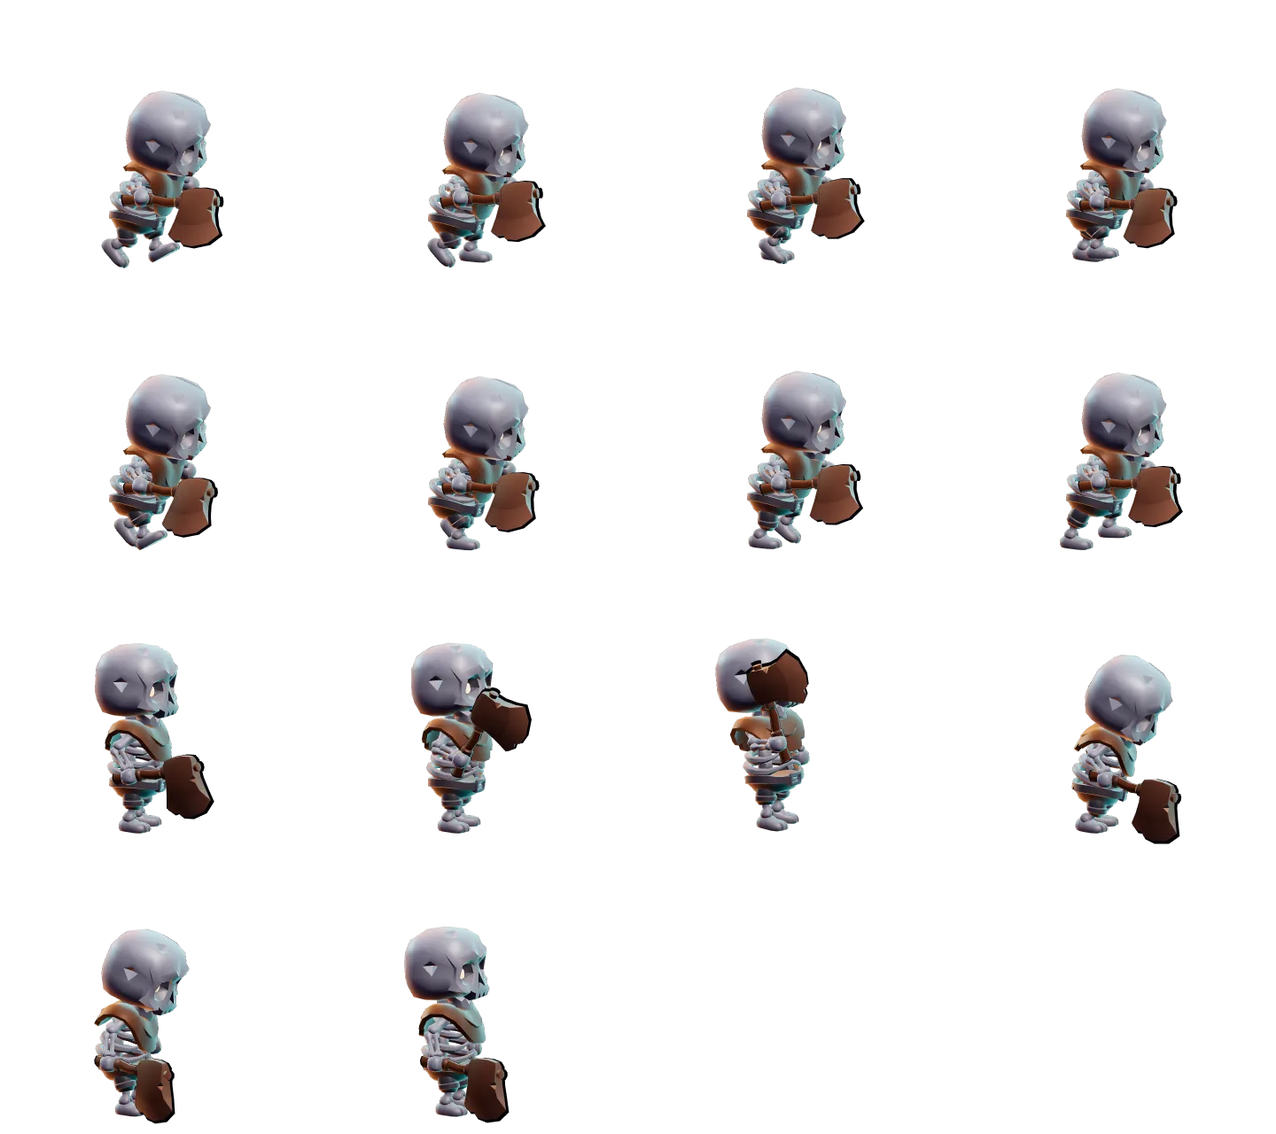
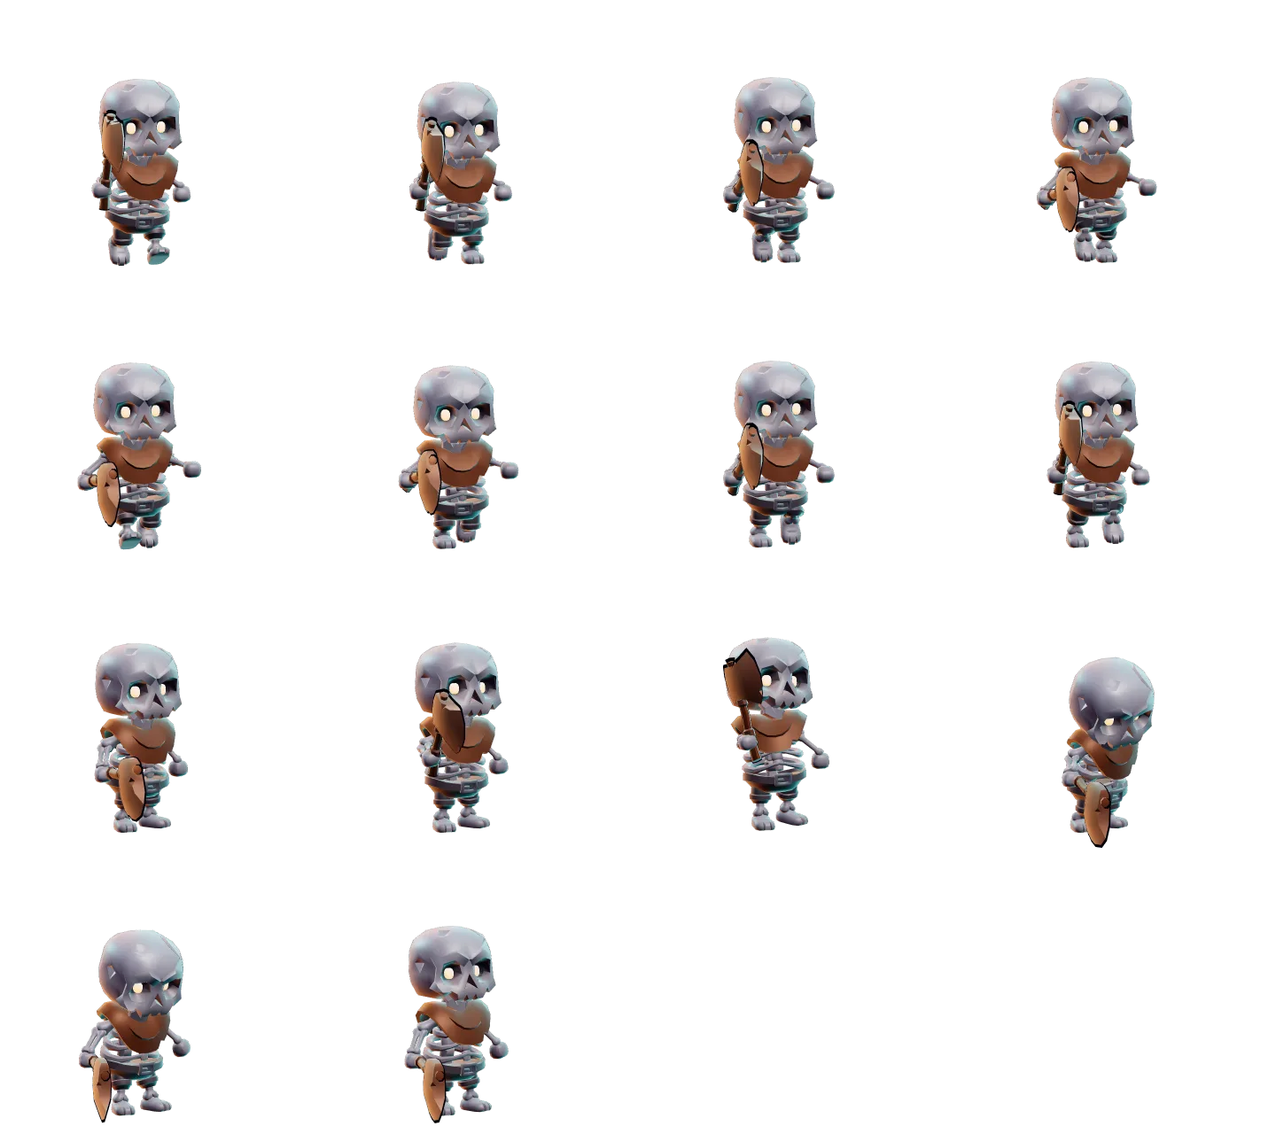
네온 레이드: 적이 등을 보이며 걷던 문제, 보스 움직임, 피격 반응
- 해골 팩 걷기 동작 방향 보정(Walking_A + 회전), 공격·맞음 자세도 3/4 각도로
- 적 피격: 맞은 쪽으로 젖힘·찌그러짐·발밑 먼지, 바닥 튕김, 일어나기, 처치 시 날아가며 흩어짐
- 보스: 거미 걸음 흔들림·점프 준비/착지·기울기, 히드라 숨쉬기·물기 준비→돌진→복귀·지친 고개, 에코 이동 기울기·베기 탄력, 맞으면 움찔
- ATL.V 4

Claude-Session: https://claude.ai/code/session_01MeQV9pgFsZyx95wCJJsgmV

diff --git a/playground/static/js/raid.js b/playground/static/js/raid.js
@@ -224,14 +224,14 @@ function bake(fn, arg, k, rim, rim2, box) {
   const wh = mkc(W, H), w2 = wh.getContext('2d'); w2.drawImage(flat, 0, 0); w2.globalCompositeOperation = 'source-in'; w2.fillStyle = '#fff'; w2.fillRect(0, 0, W, H);
   return { c: out, wh, ox: ox / k, oy: oy / k, w: W / k, h: H / k };
 }
-function put(g, sp, x, y, dir, sc, flash, rotA) {
-  g.save(); g.translate(x, y); if (rotA) g.rotate(rotA); g.scale(dir * sc, sc); g.drawImage(sp.c, -sp.ox, -sp.oy, sp.w, sp.h);
+function put(g, sp, x, y, dir, sc, flash, rotA, sx, sy) {
+  g.save(); g.translate(x, y); if (rotA) g.rotate(rotA); g.scale(dir * sc * (sx || 1), sc * (sy || 1)); g.drawImage(sp.c, -sp.ox, -sp.oy, sp.w, sp.h);
   if (flash > 0) { g.globalAlpha = Math.min(1, flash); g.drawImage(sp.wh, -sp.ox, -sp.oy, sp.w, sp.h); } g.restore();
 }
 
 /* ---------- 3D 렌더 캐릭터 아틀라스 (원본 src3d/chars, 모델 KayKit CC0) ---------- */
 // 5x4 칸, 칸 360x320px, 발 (155,295), 1 게임 단위 = 1.2px. 칸 순서 = ATL.F. 못 불러오면 예전 코드 그림을 쓴다.
-const ATL = { CW: 360, CH: 320, FX: 155, FY: 295, PXU: 1.2, V: 3, F: ['idle', 'idle2', 'run0', 'run1', 'run2', 'run3', 'jump', 'fall', 'hurt', 'dash', 'c1a', 'c1b', 'c2a', 'c2b', 'c3a', 'c3b', 'cast', 'up', 'spin', 'ult',
+const ATL = { CW: 360, CH: 320, FX: 155, FY: 295, PXU: 1.2, V: 4, F: ['idle', 'idle2', 'run0', 'run1', 'run2', 'run3', 'jump', 'fall', 'hurt', 'dash', 'c1a', 'c1b', 'c2a', 'c2b', 'c3a', 'c3b', 'cast', 'up', 'spin', 'ult',
   'idle1', 'idle3', 'run4', 'run5', 'run6', 'run7', 'hurt2', 'dash2'].concat(['c1a', 'c1b', 'c2a', 'c2b', 'c3a', 'c3b', 'cast', 'up', 'spin', 'ult'].flatMap(k => [k + '_p', k + '_f'])), p: {}, sp: {} }; // 8x6 칸 — src3d/chars/classes.js FRAMES 와 같게
 const ATL_E = ['w0', 'w1', 'w2', 'w3', 'w4', 'w5', 'w6', 'w7', 'wind0', 'wind', 'hit', 'hit2', 'hurt', 'hurt2'], ATL_EN = ['grunt', 'shield', 'elite']; // 적: 4x4 칸(걷기 8 + 준비·휘두르기·맞음 2장씩)
 function atlasLoad(key) {
@@ -769,10 +769,12 @@ function hit(e, h, dir, hx) {
 }
 // 맞은 뒤 밀림·띄우기·쓰러짐 (내 타격과 협동 동료의 타격이 같이 쓴다)
 function react(e, h, dir, big) {
+  e.hrT = G.t; e.hrD = dir; e.hrB = big ? 1 : 0; // 맞은 순간 모습(뒤로 젖힘·찌그러짐)용 — 그림만 바꾼다
+  if (!e.crate && e.z <= 0 && !isB(e)) burst(e.x - dir * 6, e.y, 2, '#a8acc8', big ? 8 : 4, big ? 140 : 90); // 발밑 먼지
   if (e.crate) { dieCheck(e, dir); return; }
   if (!ET[e.t]) return;
   const armor = ET[e.t].armor || isB(e);
-  if (isB(e)) { dieCheck(e, dir); return; }
+  if (isB(e)) { dieCheck(e, dir); return; } // 보스: hrT 로 몸만 움찔
   const kbm = armor && e.st !== 'stun' ? .25 : 1;
   e.vx = dir * h.kb * kbm * 2.2; e.f = -dir;
   if ((h.lift || e.z > 0) && !(armor && e.z <= 0 && h.lift < 300)) {
@@ -790,7 +792,7 @@ function kill(e, dir) {
   SV.dex.m[e.t] = (SV.dex.m[e.t] || 0) + 1;
   G.drops.xp += Math.round(ET[e.t].exp * G.am); burst(ex, ey, 30, ET[e.t].rim, isB(e) ? 80 : 26, isB(e) ? 420 : 260); sfx('die');
   // 빛 조각으로 흩어짐(잔인한 표현 없음)
-  G.fx.push({ k: 'ghost', e, x: e.x, y: e.y, z: e.z, t: 0, life: .45, f: e.f, dir });
+  G.fx.push({ k: 'ghost', e, x: e.x, y: e.y, z: e.z, t: 0, life: .6, f: e.f, dir });
   const lastOne = !G.en.some(o => !o.dead && !o.crate);
   if (lastOne || e.t === 'elite' || isB(e)) { G.slow = isB(e) ? 1.6 : .7; G.stop = Math.max(G.stop, .12); G.shake = Math.max(G.shake, 10); }
   const dr = (k, n) => { for (let i = 0; i < n; i++) G.it.push({ k, x: e.x + rnd(-20, 20), y: clamp(e.y + rnd(-10, 10), FY0, FY1), z: 20, vz: rnd(180, 280), t: 0 }); };
@@ -818,8 +820,8 @@ function enemyUpdate(e, dt) {
   const P = NET.on ? tgt(e) : G.P, d = ET[e.t]; e.fl -= dt; e.curse -= dt;
   if (e.spawnT > 0) { e.spawnT -= dt; return; }
   if (e.frz > 0) { e.frz -= dt; physE(e, dt); return; }
-  if (e.st === 'air') { physE(e, dt); if (e.z <= 0 && e.vz <= 0) { e.st = 'down'; e.tm = .55; e.jug = 0; G.shake = Math.max(G.shake, 2); burst(e.x, e.y, 6, '#ffffff', 5, 60); } return; }
-  if (e.st === 'down') { e.tm -= dt; physE(e, dt); if (e.tm <= 0) { e.st = 'walk'; e.tm = .3; } return; }
+  if (e.st === 'air') { physE(e, dt); if (e.z <= 0 && e.vz <= 0) { e.bnT = G.t; e.st = 'down'; e.tm = .55; e.jug = 0; G.shake = Math.max(G.shake, 2); burst(e.x, e.y, 6, '#ffffff', 5, 60); } return; }
+  if (e.st === 'down') { e.tm -= dt; physE(e, dt); if (e.tm <= 0) { e.st = 'walk'; e.tm = .3; e.guT = G.t; } return; }
   if (e.st === 'hurt') { e.tm -= dt; physE(e, dt); if (e.tm <= 0) { e.st = 'walk'; e.tm = rnd(.1, .4); } return; }
   physE(e, dt); e.tm -= dt; const dx = P.x - e.x, dy = P.y - e.y;
   if (e.t === 'ad') { adUpdate(e, dt, P, d, dx, dy); return; }
@@ -1136,7 +1138,7 @@ function spiderAI(b, dt, P, A) {
   if (b.st === 'leap') {
     if (!b.up) { if (b.tm > 0) return; b.up = 1; b.tm = 1.05; b.lx = clamp(P.x, 100, G.L - 100); b.ly = clamp(P.y, FY0 + 10, FY1 - 10); hpush({ k: 'zone', art: 'slam', x: b.lx, y: b.ly, r: 110, warn: 1.05, t: 0, d: Math.round(A * 1.25), kb: 1, end: 1.4 }); sfx('jump'); }
     const u = clamp(1 - b.tm / 1.05, 0, 1); b.z = Math.sin(u * Math.PI) * 340; b.x = lerp(b.x, b.lx, Math.min(1, dt * 3)); b.y = lerp(b.y, b.ly, Math.min(1, dt * 3));
-    if (b.tm <= 0) { b.up = 0; b.z = 0; b.x = b.lx; b.y = b.ly; b.st = 'land'; b.tm = b.ph2 ? 1.8 : 2.4; b.core = b.tm; G.shake = 14; sfx('boom'); burst(b.x, b.y, 10, '#ff5ad8', 30, 320); tx(b.x, b.y - 150, '다리가 박혔어요!', '#ffd166', 16); }
+    if (b.tm <= 0) { b.up = 0; b.z = 0; b.x = b.lx; b.y = b.ly; b.st = 'land'; b.lnT = G.t; b.tm = b.ph2 ? 1.8 : 2.4; b.core = b.tm; G.shake = 14; sfx('boom'); burst(b.x, b.y, 10, '#ff5ad8', 30, 320); tx(b.x, b.y - 150, '다리가 박혔어요!', '#ffd166', 16); }
     return;
   }
   if (b.st === 'land') { if (b.tm <= 0) { b.st = 'idle'; b.tm = b.ph2 ? .7 : 1.1; } return; }
@@ -1315,10 +1317,12 @@ function drawE(g, e) {
   const S = SPR.e[e.t] || spx(e.t); if (!S) return; let sp = S.w0; if (e.st === 'blink') { g.save(); g.globalAlpha = clamp(e.tm / .35, 0, 1); }
   if (e.st === 'walk') sp = S.w7 ? [S.w0, S.w1, S.w2, S.w3, S.w4, S.w5, S.w6, S.w7][Math.floor(e.ph * 2) % 8] : S.w5 ? [S.w0, S.w1, S.w2, S.w3, S.w4, S.w5][Math.floor(e.ph * 1.5) % 6] : [S.w0, S.w1, S.w0, S.w2][Math.floor(e.ph) % 4];
   else if (e.st === 'wind') sp = S.wind0 && e.tm > .3 ? S.wind0 : S.wind; else if (e.st === 'swing') sp = S.hit2 && e.tm < .2 ? S.hit2 : S.hit; else if (e.st === 'hurt' || e.st === 'air' || e.st === 'down') sp = S.hurt2 && (e.st === 'down' || e.tm < .12) ? S.hurt2 : S.hurt;
-  let rot = 0; if (e.st === 'air') rot = -e.f * clamp(e.vz / -400 + .4, -.2, 1.3); if (e.st === 'down') rot = -e.f * 1.45;
+  let rot = 0, sqx = 1, sqy = 1, yo = 0; if (e.st === 'air') rot = -e.f * clamp(e.vz / -400 + .4, -.2, 1.3); if (e.st === 'down') { rot = -e.f * 1.45; const bt = G.t - (e.bnT || -9); if (bt < .35) yo = -Math.abs(Math.sin(bt / .35 * Math.PI)) * 14 * (1 - bt / .35); } // 바닥에 튕김
+  const gt = G.t - (e.guT || -9); if (e.st === 'walk' && gt < .28) { const k = 1 - gt / .28; rot = -e.f * 1.45 * k * k; sp = S.hurt2 || S.hurt; sqy = 1 - .08 * k; } // 일어나기
+  const ht = G.t - (e.hrT || -9), hd = .16 + (e.hrB ? .12 : 0); if (ht < hd && e.st !== 'air' && e.st !== 'down') { const k = 1 - ht / hd, kk = k * k; rot += (e.hrD || 1) * (e.hrB ? .32 : .18) * kk; sqx = 1 + .14 * kk * (ht < .05 ? 1 : -.4); sqy = 1 - .1 * kk * (ht < .05 ? 1 : -.5); } // 맞은 쪽으로 젖힘 + 찌그러짐
   const shk = e.fl > 0 ? rnd(-2, 2) : 0, sc = ET[e.t].sc;
   if (e.st === 'wind') { const pu = .5 + .5 * Math.sin(G.t * 40); glw(g, e.x, e.y - e.z - e.h - 18, 14 + pu * 6, '#ff3d6a', .9); glw(g, e.x, e.y - e.z - e.h - 18, 5, '#ffffff', pu); glw(g, e.x + e.f * 30, e.y - e.z - e.h * .55, 26, hexA(ET[e.t].rim), .35 + pu * .3); }
-  put(g, sp, e.x + shk, e.y - e.z - (e.st === 'down' ? 8 : 0), e.f, sc, e.fl > 0 ? Math.min(.55, e.fl * 9) : e.frz > 0 ? .35 : 0, rot);
+  put(g, sp, e.x + shk, e.y - e.z - (e.st === 'down' ? 8 : 0) + yo, e.f, sc, e.fl > 0 ? Math.min(.55, e.fl * 9) : e.frz > 0 ? .35 : 0, rot, sqx, sqy);
   if (e.st === 'blink') g.restore();
   if (e.frz > 0) { g.fillStyle = 'rgba(180,240,255,.35)'; g.beginPath(); g.roundRect(e.x - e.w - 4, e.y - e.h - 6, e.w * 2 + 8, e.h + 8, 6); g.fill(); }
   if (e.curse > 0) dot(g, e.x, e.y - e.z - e.h - 12, 3, '#7dff9a');
@@ -1414,7 +1418,8 @@ function drawFx(g) {
     else if (f.k === 'dash') { g.save(); g.globalAlpha = .6 * (1 - u); g.fillStyle = f.col; for (let i = 0; i < 5; i++) g.fillRect(f.x - f.f * (20 + i * 22), f.y - f.z - 30 - i * 9, -f.f * 40, 2); g.restore(); }
     else if (f.k === 'slam') { g.save(); g.globalCompositeOperation = 'lighter'; g.globalAlpha = 1 - u; const rx = 30 + u * 90, ry = 10 + u * 26; g.strokeStyle = '#ff2a6a'; g.lineWidth = 12 * (1 - u) + 2; g.globalAlpha = (1 - u) * .35; g.beginPath(); g.ellipse(f.x, f.y, rx, ry, 0, 0, TAU); g.stroke(); g.globalAlpha = 1 - u; g.lineWidth = 3; g.strokeStyle = '#ffd0dc'; g.beginPath(); g.ellipse(f.x, f.y, rx, ry, 0, 0, TAU); g.stroke(); glw(g, f.x, f.y, 60 * (1 - u), '#ff2a6a', .7); for (let i = 0; i < 8; i++) { const a = i / 8 * TAU; glw(g, f.x + Math.cos(a) * rx, f.y + Math.sin(a) * ry - u * 20, 6, '#ff9ac0', 1 - u); } g.restore(); }
     else if (f.k === 'bolt' || f.k === 'petz') { g.save(); g.globalAlpha = 1 - u; g.shadowColor = f.k === 'bolt' ? '#e3b8ff' : '#ffd6f5'; g.shadowBlur = 14; g.strokeStyle = '#fff'; g.lineWidth = f.k === 'bolt' ? 2.5 : 1.5; g.beginPath(); g.moveTo(f.x, f.y); for (let i = 1; i < 6; i++) g.lineTo(lerp(f.x, f.x2, i / 6) + rnd(-8, 8), lerp(f.y, f.y2, i / 6) + rnd(-8, 8)); g.lineTo(f.x2, f.y2); g.stroke(); g.restore(); }
-    else if (f.k === 'ghost') { const e = f.e; g.save(); g.globalAlpha = (1 - u) * .8; g.globalCompositeOperation = 'lighter'; if (e.t === 'drone') dot(g, f.x, f.y - f.z, 20 * (1 + u), '#4fd8ff'); else if (SPR.e[e.t] || spx(e.t)) put(g, (SPR.e[e.t] || spx(e.t)).hurt, f.x + f.dir * u * 30, f.y - f.z - u * 20, f.f, ET[e.t].sc * (1 + u * .3), .5); g.restore(); }
+    else if (f.k === 'ghost') { const e = f.e; g.save(); g.globalAlpha = (1 - u) * .8; g.globalCompositeOperation = 'lighter'; if (e.t === 'drone') dot(g, f.x, f.y - f.z, 20 * (1 + u), '#4fd8ff'); else if (SPR.e[e.t] || spx(e.t)) { const S2 = SPR.e[e.t] || spx(e.t), d = f.dir || 1, arc = Math.sin(Math.min(1, u * 1.6) * Math.PI) * 40; g.globalCompositeOperation = 'source-over'; g.globalAlpha = 1 - u * u; put(g, S2.hurt2 || S2.hurt, f.x + d * u * 70, f.y - f.z - arc, f.f, ET[e.t].sc * (1 - u * .25), .25 + u * .6, -f.f * Math.min(1.45, u * 3), 1 + u * .2, 1 - u * .3);
+        g.globalCompositeOperation = 'lighter'; for (let i = 0; i < 5; i++) glw(g, f.x + d * u * 70 + Math.sin(i * 2.4) * 22 * u, f.y - f.z - arc - 20 - i * 12 - u * 40, 9 * (1 - u), hexA(ET[e.t].rim), 1 - u); } g.restore(); }
     else if (f.k === 'area') drawArea(g, f, u);
     else if (f.k === 'shock') { const c2 = hexA(f.col), e2 = 1 - Math.pow(1 - u, 3); g.save(); g.globalCompositeOperation = 'lighter'; for (let j = 0; j < 3; j++) { const v = clamp(e2 - j * .12, 0, 1), rx = f.r * v, ry = rx * .32; if (v <= 0) continue; g.globalAlpha = (1 - u) * (j ? .5 : .9); g.strokeStyle = j ? c2 : '#ffffff'; g.lineWidth = (j ? 10 : 4) * (1 - u) + 1; g.beginPath(); g.ellipse(f.x, f.y, rx, ry, 0, 0, TAU); g.stroke(); }
       g.globalAlpha = (1 - u) * .8; g.strokeStyle = c2; g.lineWidth = 2; for (let i = 0; i < 10; i++) { const a = i / 10 * TAU + .3, L1 = 30 + e2 * f.r * .7; g.beginPath(); g.moveTo(f.x + Math.cos(a) * 20, f.y + Math.sin(a) * 7); g.lineTo(f.x + Math.cos(a) * L1 * .6 + Math.sin(i * 7) * 12, f.y + Math.sin(a) * L1 * .2); g.lineTo(f.x + Math.cos(a) * L1, f.y + Math.sin(a) * L1 * .32); g.stroke(); }
@@ -1645,14 +1650,15 @@ function drawSign(g, x0, y0, col, ci, a) {
 /* ---------- 보스 그리기 ---------- */
 function drawBoss2(g, b) { if (b.t === 'spider') drawSpider(g, b); else if (b.t === 'hydra') drawHydra(g, b); else drawEcho(g, b); }
 function drawSpider(g, b) {
-  const y = b.y - b.z, f = b.f || -1, fl = b.fl > 0, land = b.st === 'land', crouch = (b.st === 'leap' && !b.up) ? 10 : 0, air = b.z > 4, ph = (b.walk || 0) + (NET.guest ? G.t * 3 : 0);
+  const y = b.y - b.z, f = b.f || -1, fl = b.fl > 0, land = b.st === 'land', air = b.z > 4, lt = G.t - (b.lnT || -9), ez = t => 1 - (1 - t) * (1 - t), crouch = (b.st === 'leap' && !b.up) ? 18 * ez(clamp(1 - b.tm / .6, 0, 1)) : air ? -6 : land && lt < .3 ? 20 * (1 - lt / .3) : 0, ph = (b.walk || 0) + (NET.guest ? G.t * 3 : 0);
   const body = fl ? '#b8a8e0' : null;
   const leg = (i, back) => { const s = i < 2 ? 1 : -1, j = i % 2, hipX = (j ? 18 : -10) * s, hipY = -74 + crouch, swing = air ? -10 : land ? 18 : Math.sin(ph + i * 1.7 + (back ? .8 : 0)) * 14,
       footX = (j ? 104 : 74) * s + swing * s * .5 + (back ? -8 * s : 0), footY = air ? -20 : (back ? -6 : 4), kneeX = (j ? 70 : 46) * s + (back ? -4 * s : 0), kneeY = -130 + crouch + (air ? 30 : 0) - (land ? -20 : 0) + Math.max(0, Math.sin(ph + i * 1.7)) * (air ? 0 : 10);
     if (ATL.b2) { const sp = back ? ATL.b2.splegd : ATL.b2.spleg, w = fl ? .45 : 0; seg3(g, sp, hipX, hipY, kneeX, kneeY, back ? .85 : 1, w); seg3(g, sp, kneeX, kneeY, footX, footY, back ? .7 : .85, w); glw(g, kneeX, kneeY, back ? 6 : 9, '#ff5ad8', back ? .4 : .8); return; }
     g.strokeStyle = 'rgba(8,4,14,.95)'; g.lineWidth = back ? 12 : 14; g.lineCap = 'round'; g.lineJoin = 'round'; g.beginPath(); g.moveTo(hipX, hipY); g.lineTo(kneeX, kneeY); g.lineTo(footX, footY); g.stroke();
     g.strokeStyle = body || (back ? '#3a2e52' : '#5a4a78'); g.lineWidth = back ? 8 : 9; g.stroke(); g.strokeStyle = body || '#ff5ad8'; g.globalAlpha = back ? .3 : .6; g.lineWidth = 1.6; g.beginPath(); g.moveTo(kneeX, kneeY); g.lineTo(footX, footY); g.stroke(); g.globalAlpha = 1; dot(g, kneeX, kneeY, 3, back ? '#a04a90' : '#ff9ae8'); };
-  g.save(); g.translate(b.x, y); g.scale(-f, 1);
+  const ht = G.t - (b.hrT || -9), rec = ht < .15 ? (b.hrD || 0) * 7 * (1 - ht / .15) : 0, bob = air ? 0 : (Math.abs(Math.sin(ph)) * 5 - 2.5), tilt = air ? (b.vz0 = b.z - (b.pz || 0), b.pz = b.z, clamp(-b.vz0 * .02, -.18, .18)) : (b.pz = 0, Math.sin(ph * .5) * .02);
+  g.save(); g.translate(b.x + rec, y + bob); g.scale(-f, 1); g.rotate(tilt); // 걸음에 맞춰 몸 흔들림·점프 때 기울기·맞으면 움찔
   for (let i = 0; i < 4; i++) leg(i, 1);
   if (ATL.b2) { put(g, ATL.b2.spbody, 0, crouch, 1, 1, fl ? .45 : 0); glw(g, -46, -84 + crouch, land ? 22 : 14, land ? '#ffd166' : '#ff5ad8', .8); glw(g, 46, -100 + crouch, 50, '#ff5ad8', .18); }
   else {
@@ -1670,21 +1676,23 @@ function drawSpider(g, b) {
   if (b.core > 0) { g.save(); const r = 34 + Math.sin(G.t * 10) * 4; g.fillStyle = rg(g, b.x, y - 76, 0, r, [[0, 'rgba(255,255,255,.9)'], [.4, 'rgba(255,214,102,.6)'], [1, 'rgba(255,120,0,0)']]); g.beginPath(); g.arc(b.x, y - 76, r, 0, TAU); g.fill(); g.restore(); for (let i = 0; i < 3; i++) dot(g, b.x + Math.cos(G.t * 5 + i * 2) * 50, y - 150 + Math.sin(G.t * 5 + i * 2) * 8, 3, '#ffd166'); }
 }
 function drawHydra(g, b) {
-  const r = b.st === 'enter' ? Math.min(1, b.rise || 1 - Math.max(0, b.tm) / 2.2) : 1, y = b.y + (1 - r) * 150, fl = b.fl > 0, tired = b.st === 'tired', beam = b.st === 'beam';
-  g.save(); g.globalAlpha = .3 + .7 * r; g.translate(b.x, y);
+  const r = b.st === 'enter' ? Math.min(1, b.rise || 1 - Math.max(0, b.tm) / 2.2) : 1, y = b.y + (1 - r) * 150, fl = b.fl > 0, tired = b.st === 'tired', beam = b.st === 'beam', ht = G.t - (b.hrT || -9), rec = ht < .15 ? 6 * (1 - ht / .15) : 0;
+  b.td = lerp(b.td || 0, tired ? 1 : 0, .07); const td = b.td, br = Math.sin(G.t * 2.2) * .012; // 지쳐 고개 숙이기·숨쉬기를 부드럽게
+  g.save(); g.globalAlpha = .3 + .7 * r; g.translate(b.x + rec, y);
   // 몸통: 서버 더미
   const blk = (x0, y0, w, h) => { g.fillStyle = fl ? '#4a7aa0' : lg(g, x0, 0, x0 + w, 0, [[0, '#0a1626'], [.5, '#1a3450'], [1, '#08121e']]); g.beginPath(); g.roundRect(x0, y0, w, h, 6); g.fill(); g.strokeStyle = '#2a5070'; g.lineWidth = 1.5; g.stroke();
     for (let yy = y0 + 8; yy < y0 + h - 6; yy += 11) { g.fillStyle = '#06101c'; g.fillRect(x0 + 6, yy, w - 12, 7); for (let l = 0; l < 4; l++) { const on2 = Math.sin(G.t * (3 + l) + yy + x0) > 0; g.fillStyle = on2 ? ['#4fd8ff', '#6bff9a', '#ffd166', '#ff5a7a'][l] : '#1a2a3a'; g.fillRect(x0 + 10 + l * 7, yy + 2, 3, 3); } } };
-  if (ATL.b2) { put(g, ATL.b2.hybody, 0, 0, 1, 1, fl ? .7 : 0); for (let l = 0; l < 4; l++) glw(g, -50 + l * 30, -60 - l * 40, 12, ['#4fd8ff', '#6bff9a', '#ffd166', '#ff5a7a'][l], .4 + .4 * Math.sin(G.t * (3 + l))); }
+  if (ATL.b2) { put(g, ATL.b2.hybody, 0, 0, 1, 1, fl ? .7 : 0, 0, 1 - br * .5, 1 + br); for (let l = 0; l < 4; l++) glw(g, -50 + l * 30, -60 - l * 40, 12, ['#4fd8ff', '#6bff9a', '#ffd166', '#ff5a7a'][l], .4 + .4 * Math.sin(G.t * (3 + l))); }
   else { blk(-70, -120, 130, 120); blk(-50, -190, 96, 74); blk(-20, -232, 60, 46); }
   if (b.core > 0) { const rr = 30 + Math.sin(G.t * 10) * 4; g.fillStyle = rg(g, -6, -150, 0, rr, [[0, 'rgba(255,255,255,1)'], [.35, 'rgba(255,214,102,.9)'], [1, 'rgba(255,120,0,0)']]); g.beginPath(); g.arc(-6, -150, rr, 0, TAU); g.fill(); }
   // 목(케이블) + 머리 3개
   for (let i = 0; i < 3; i++) {
-    const sway = Math.sin(G.t * 2 + i * 2.1) * 8, lunge = b.st === 'bite' && b.hd === i && b.tm < .45 ? -70 : 0, hx = -150 - i * 18 + sway + lunge, hy = (tired ? -60 : -200) + i * 52 + Math.cos(G.t * 1.6 + i) * 6, bx0 = -50, by0 = -150 + i * 30;
+    const sway = Math.sin(G.t * 2 + i * 2.1 + Math.sin(G.t * .7) * .6) * 9, bt = b.st === 'bite' && b.hd === i ? b.tm : 9, lunge = bt < 1.1 ? (bt > .45 ? 22 * Math.sin((1.1 - bt) / .65 * Math.PI * .5) : -92 * Math.pow(clamp((.45 - bt) / .12, 0, 1), .5) * clamp(bt / .2, 0, 1)) : 0, bm = beam ? Math.sin(G.t * 40 + i) * 2 + 10 : 0,
+      hx = -150 - i * 18 + sway + lunge + bm, hy = lerp(-200, -60, td) + i * 52 + Math.cos(G.t * 1.6 + i) * 6 * (1 - td * .7), bx0 = -50, by0 = -150 + i * 30;
     g.strokeStyle = 'rgba(4,8,16,.95)'; g.lineWidth = 20; g.lineCap = 'round'; g.beginPath(); g.moveTo(bx0, by0); g.bezierCurveTo(bx0 - 40, by0 - 60 + i * 20, hx + 60, hy - 30, hx + 20, hy); g.stroke();
     g.strokeStyle = fl ? '#6a9ac0' : ['#1e4a6a', '#2a3a6a', '#1a5a5a'][i]; g.lineWidth = 14; g.stroke();
     g.strokeStyle = 'rgba(79,216,255,.5)'; g.lineWidth = 2; g.setLineDash([3, 7]); g.stroke(); g.setLineDash([]);
-    g.save(); g.translate(hx, hy); if (tired) g.rotate(-.5); const open = beam || (b.st === 'bite' && b.hd === i) ? 1 : 0;
+    g.save(); g.translate(hx, hy); g.rotate(-.5 * td + (bt < .45 ? -.12 : bt < 1.1 ? .1 : 0)); const open = beam || (b.st === 'bite' && b.hd === i) ? 1 : 0;
     if (ATL.b2) { put(g, open ? ATL.b2.hyh1 : ATL.b2.hyh0, 0, 0, 1, 1, fl ? .7 : 0); if (!tired) glw(g, -10, -8, 10, beam ? '#ffffff' : '#4fd8ff', .7); if (beam) dot(g, -52, 4, 6 + Math.sin(G.t * 30) * 2, '#bff4ff'); g.restore(); continue; }
     shape(g, [[16, -18], [-30, -14], [-56, -4 - open * 6], [-34, 0], [16, 4]], fl ? '#8ab8e0' : lg(g, 0, -18, 0, 4, [[0, '#3a6a90'], [1, '#14283a']]), .2);
     shape(g, [[16, 6], [-30, 4 + open * 10], [-50, 10 + open * 16], [-28, 16], [14, 16]], fl ? '#4a7aa0' : '#12243a', .2);
@@ -1696,10 +1704,11 @@ function drawHydra(g, b) {
   if (tired) for (let i = 0; i < 3; i++) dot(g, b.x - 150 + Math.cos(G.t * 5 + i * 2) * 40, y - 120 + Math.sin(G.t * 5 + i * 2) * 8, 3, '#ffd166');
 }
 function drawEcho(g, b) {
-  const f = b.f || -1, fl = b.fl > 0, y = b.y - b.z, tired = b.st === 'tired';
+  const f = b.f || -1, fl = b.fl > 0, y = b.y - b.z, tired = b.st === 'tired', ht = G.t - (b.hrT || -9), rec = ht < .15 ? (b.hrD || 0) * 6 * (1 - ht / .15) : 0;
+  b.td = lerp(b.td || 0, tired ? 1 : 0, .08); const dx = b.x - (b.dpx == null ? b.x : b.dpx); b.dpx = b.x; b.lean = lerp(b.lean || 0, Math.abs(dx) > 40 ? 0 : clamp(dx * .06, -.22, .22), .12); // 움직이는 쪽으로 기울기
   let al = 1; if (b.st === 'enter') al = clamp(1 - b.tm / 2.2, 0, 1); if (b.st === 'blink') al = clamp(b.tm / .45, 0, 1);
-  g.save(); g.globalAlpha = al; g.translate(b.x + (b.st === 'blink' ? rnd(-3, 3) : 0), y + (tired ? 14 : 0)); g.scale(f, 1);
-  const wv = Math.sin(G.t * 3) * 8, sl = b.st === 'slash' ? clamp(1 - b.tm / .6, 0, 1) : 0;
+  g.save(); g.globalAlpha = al; g.translate(b.x + rec + (b.st === 'blink' ? rnd(-3, 3) : 0), y + b.td * 14); g.rotate(b.lean + (ht < .15 ? (b.hrD || 0) * .08 * (1 - ht / .15) : 0)); g.scale(f, 1); g.rotate(b.td * .12);
+  const wv = Math.sin(G.t * 3) * 8 + b.lean * f * 30, sl0 = b.st === 'slash' ? clamp(1 - b.tm / .6, 0, 1) : 0, sl = sl0 < .3 ? -.25 * Math.sin(sl0 / .3 * Math.PI * .5) : 1 - Math.pow(1 - (sl0 - .3) / .7, 3); // 베기: 뒤로 젖혔다가 빠르게
   const E3 = ATL.b2, fw = fl ? .7 : 0;
   if (E3) { g.save(); g.translate(0, -118); g.transform(1, 0, -wv * .012, 1, 0, 0); g.translate(0, 118); put(g, E3.eccape, 0, 0, 1, 1, fw); g.restore(); put(g, E3.ecbody, 0, 0, 1, 1, fw); }
   else {
@@ -1713,7 +1722,7 @@ function drawEcho(g, b) {
   if (tired || b.core > 0) { const rr = 16 + Math.sin(G.t * 10) * 3; g.fillStyle = rg(g, 0, -84, 0, rr * 1.8, [[0, 'rgba(255,255,255,1)'], [.4, 'rgba(255,214,102,.8)'], [1, 'rgba(255,120,0,0)']]); g.beginPath(); g.arc(0, -84, rr * 1.8, 0, TAU); g.fill(); }
   else if (E3) glw(g, 0, -84, 14, '#c084ff', .9); else dot(g, 0, -84, 5, '#c084ff');
   // 칼을 든 팔
-  g.save(); g.translate(14, -104); g.rotate(tired ? 1.2 : -1.1 + sl * 2.6 + Math.sin(G.t * 2) * .05);
+  g.save(); g.translate(14, -104); g.rotate(lerp(-1.1 + sl * 2.6 + Math.sin(G.t * 2) * .05, 1.2, b.td));
   if (E3) { put(g, E3.ecsw, 0, 0, 1, 1, fw); for (let j = 0; j < 3; j++) glw(g, 0, 50 + j * 24, 16, '#c084ff', .35 + (sl ? .4 : 0)); } else {
   g.strokeStyle = fl ? '#6a4a90' : '#3a2050'; g.lineWidth = 8; g.lineCap = 'round'; g.beginPath(); g.moveTo(0, 0); g.lineTo(0, 30); g.stroke();
   g.shadowColor = '#c084ff'; g.shadowBlur = 16; shape(g, [[-3, 30], [3, 30], [6, 96], [0, 112], [-6, 96]], lg(g, 0, 30, 0, 112, [[0, '#f6eaff'], [1, '#a06aff']]), .1); } g.restore();

diff --git a/playground/src3d/chars/classes.js b/playground/src3d/chars/classes.js
@@ -72,9 +72,10 @@ export const CLASSES = {
 
 // 적: 9프레임(3x3, 걷기 6 + 준비·휘두르기·맞음). 균열 빛에 깨어난 기계 골격 — KayKit Skeletons(CC0) 뼈를 금속색으로 칠하고 눈을 빛나게.
 export const EFRAMES = ['w0', 'w1', 'w2', 'w3', 'w4', 'w5', 'w6', 'w7', 'wind0', 'wind', 'hit', 'hit2', 'hurt', 'hurt2']; // 4x4 칸: 걷기 8 + 준비 2 + 휘두르기 2 + 맞음 2
-const WK = 'Walking_D_Skeletons';
-const EF = (atk, wa, wb) => ({ w0: [WK, 0], w1: [WK, 1 / 8], w2: [WK, 2 / 8], w3: [WK, 3 / 8], w4: [WK, 4 / 8], w5: [WK, 5 / 8], w6: [WK, 6 / 8], w7: [WK, 7 / 8],
-  wind0: [atk, Math.max(0, wa - .12)], wind: [atk, wa], hit: [atk, wb], hit2: [atk, Math.min(.95, wb + .17)], hurt: ['Hit_A', .3], hurt2: ['Hit_A', .6] });
+// BK 11/14 '적이 뒤로 등장': 해골 팩은 몸 방향이 모험가 팩과 달라 등이 보였다 → 걷기 Walking_A + 방향 보정(WY), 공격·맞음도 조금(AY) 돌림
+const WK = 'Walking_A', WY = -.85, AY = -.6;
+const EF = (atk, wa, wb) => ({ w0: [WK, 0, WY], w1: [WK, 1 / 8, WY], w2: [WK, 2 / 8, WY], w3: [WK, 3 / 8, WY], w4: [WK, 4 / 8, WY], w5: [WK, 5 / 8, WY], w6: [WK, 6 / 8, WY], w7: [WK, 7 / 8, WY],
+  wind0: [atk, Math.max(0, wa - .12), AY], wind: [atk, wa, AY], hit: [atk, wb, AY], hit2: [atk, Math.min(.95, wb + .17), AY], hurt: ['Hit_A', .3, AY], hurt2: ['Hit_A', .6, AY] });
 const BONE = (pre, col, extra) => Object.assign({ [pre + '_Body']: col, [pre + '_Head']: col, [pre + '_Jaw']: col, [pre + '_ArmLeft']: col, [pre + '_ArmRight']: col, [pre + '_LegLeft']: col, [pre + '_LegRight']: col }, extra || {});
 export const ENEMIES = {
   grunt: {

diff --git a/playground/src3d/chars/render.html b/playground/src3d/chars/render.html
@@ -113,7 +113,7 @@ window.renderClass = async function (cls, label) {
   o.imageSmoothingQuality = 'high';
   if (label) { o.fillStyle = '#1a1438'; o.fillRect(0, 0, out.width, out.height); }
   FR.forEach((f, i) => {
-    const [an, t] = C.frames[f], clip = clips.find(a => a.name === an); if (!clip) throw new Error(cls + ': no clip ' + an);
+    const [an, t, yaw] = C.frames[f], clip = clips.find(a => a.name === an); if (!clip) throw new Error(cls + ': no clip ' + an); root.rotation.y = Math.PI / 2 * .72 + (yaw || 0);
     mixer.stopAllAction(); const ac = mixer.clipAction(clip); ac.reset().play(); mixer.setTime(clip.duration * t);
     r.render(scene, cam);
     const x = (i % COLS) * CW, y = Math.floor(i / COLS) * CH * (label ? 1.12 : 1);
